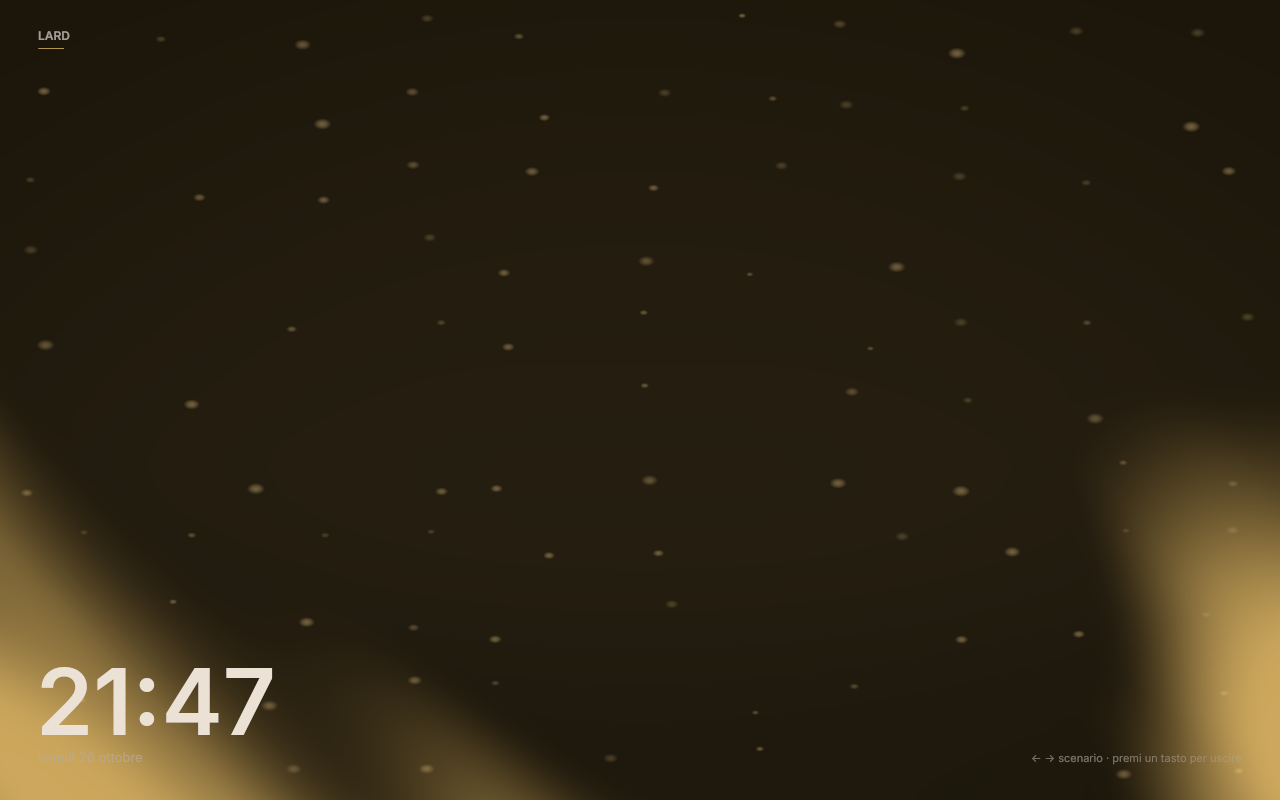
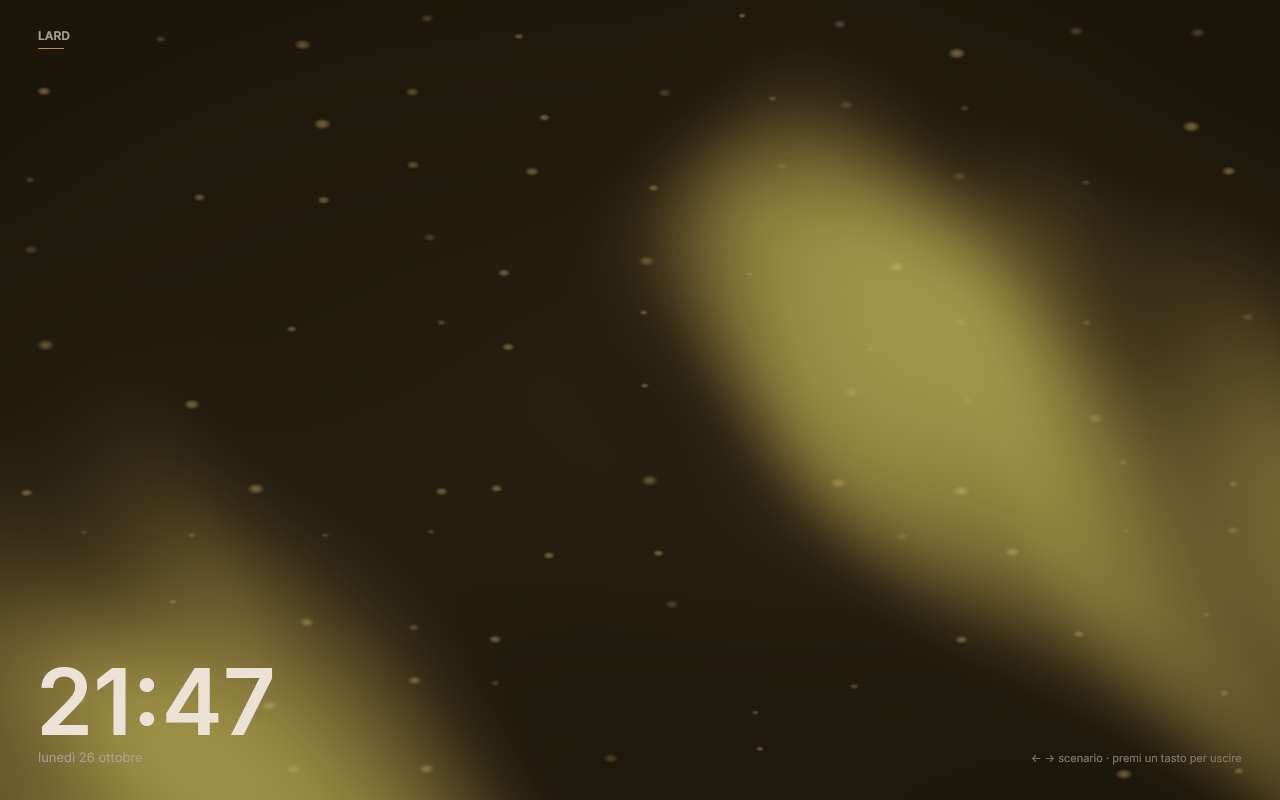
fix(lock): sfondo a risoluzione piena (niente più miniatura sgranata)
- Il wallpaper della lock ora viene decodificato e ricampionato (Catmull-Rom)
  direttamente alla dimensione dell'output, invece di partire da una miniatura
  512x288 stirata sullo schermo.
- Il risultato è messo in cache su disco (~/.cache/lard), chiave = path+mtime+
  dimensione: decodificare un JPEG 4K costa ~1s e la lock non può permetterselo
  a ogni blocco. Le cache vecchie della stessa dimensione vengono ripulite.
- Scene: gas più rado e meno "muro di colore" (soglia alta, due toni
  dell'accent, alone leggero); polvere con jitter a cella intera, non più
  allineata in griglia.

diff --git a/crates/lard-greeter/src/ui.rs b/crates/lard-greeter/src/ui.rs
@@ -82,23 +82,111 @@ pub struct GreeterView {
     /// Wallpaper pixels for the backdrop, and whether they were handed to the
     /// renderer already (the texture is uploaded only once).
     wallpaper: Option<(u32, u32, Vec<u8>)>,
+    /// Source file: decoded only once the output size is known, so the image is
+    /// resampled straight to the screen instead of being shrunk to a thumbnail.
+    wallpaper_path: Option<std::path::PathBuf>,
     wallpaper_uploaded: bool,
 }
 
+/// Cache file for a wallpaper resampled at a given size, keyed by the source
+/// path, its modification time and its length (`v1` bumps the format).
+fn wallpaper_cache_path(
+    source: &std::path::Path,
+    width: u32,
+    height: u32,
+) -> Option<std::path::PathBuf> {
+    use std::hash::{Hash, Hasher};
+    let metadata = std::fs::metadata(source).ok()?;
+    let modified = metadata
+        .modified()
+        .ok()?
+        .duration_since(std::time::UNIX_EPOCH)
+        .ok()?
+        .as_nanos();
+    let mut hasher = std::collections::hash_map::DefaultHasher::new();
+    source.hash(&mut hasher);
+    modified.hash(&mut hasher);
+    metadata.len().hash(&mut hasher);
+    let dir = std::env::var_os("XDG_CACHE_HOME")
+        .map(std::path::PathBuf::from)
+        .or_else(|| std::env::var_os("HOME").map(|home| std::path::PathBuf::from(home).join(".cache")))?
+        .join("lard");
+    std::fs::create_dir_all(&dir).ok()?;
+    Some(dir.join(format!("wallpaper-v1-{:016x}-{width}x{height}.rgba", hasher.finish())))
+}
+
 impl GreeterView {
-    /// Decode the desktop wallpaper for the lock screen backdrop. Done once, at
-    /// start-up: the lock surface must not block on a 4K JPEG later.
+    /// Point the lock screen at the desktop wallpaper. The file itself is read
+    /// on the first frame, when the size of the output is known.
     pub fn load_wallpaper(&mut self, path: &std::path::Path) {
-        // Its own texture, not the icon atlas: enough resolution to stay
-        // readable on a 1600px-wide screen, still cheap to blur.
-        const W: u32 = 512;
-        const H: u32 = 288;
-        let Ok(image) = image::open(path) else {
+        // Decoding happens later, on the first frame: only then the size of the
+        // output is known and the image can be resampled exactly, which is what
+        // keeps the backdrop sharp (a fixed thumbnail looked pixelated).
+        self.wallpaper_path = Some(path.to_path_buf());
+        self.wallpaper = None;
+        self.wallpaper_uploaded = false;
+    }
+
+    /// Resample the wallpaper to exactly the surface size. The result is cached
+    /// on disk: decoding a 4K JPEG plus a Catmull-Rom resample costs more than
+    /// a second, far too slow to pay on every unlock, and the lock must appear
+    /// immediately.
+    fn ensure_wallpaper(&mut self, size: Size) {
+        let Some(path) = self.wallpaper_path.clone() else {
+            return;
+        };
+        let width = size.w.max(1.0).round() as u32;
+        let height = size.h.max(1.0).round() as u32;
+        if self
+            .wallpaper
+            .as_ref()
+            .is_some_and(|(w, h, _)| (*w, *h) == (width, height))
+        {
+            return;
+        }
+        let expected = (width as usize) * (height as usize) * 4;
+        let cache = wallpaper_cache_path(&path, width, height);
+        if let Some(bytes) = cache
+            .as_ref()
+            .and_then(|cache| std::fs::read(cache).ok())
+            .filter(|bytes| bytes.len() == expected)
+        {
+            self.wallpaper = Some((width, height, bytes));
+            self.wallpaper_uploaded = false;
+            return;
+        }
+        let Ok(image) = image::open(&path) else {
             self.wallpaper = None;
             return;
         };
-        let small = image.resize_exact(W, H, image::imageops::FilterType::Triangle);
-        self.wallpaper = Some((W, H, small.to_rgba8().into_raw()));
+        let resized = image::imageops::resize(
+            &image.to_rgba8(),
+            width,
+            height,
+            image::imageops::FilterType::CatmullRom,
+        );
+        let rgba = resized.into_raw();
+        if let Some(cache) = &cache {
+            // One file per wallpaper change: drop the previous one for this
+            // size so the cache directory does not grow forever.
+            if let (Some(dir), Some(name)) = (cache.parent(), cache.file_name().and_then(|n| n.to_str())) {
+                let suffix = format!("-{width}x{height}.rgba");
+                if let Ok(entries) = std::fs::read_dir(dir) {
+                    for entry in entries.flatten() {
+                        let path = entry.path();
+                        let other = path.file_name().and_then(|n| n.to_str()).unwrap_or_default();
+                        if other.starts_with("wallpaper-v1-")
+                            && other.ends_with(&suffix)
+                            && other != name
+                        {
+                            let _ = std::fs::remove_file(&path);
+                        }
+                    }
+                }
+            }
+            let _ = std::fs::write(cache, &rgba);
+        }
+        self.wallpaper = Some((width, height, rgba));
         self.wallpaper_uploaded = false;
     }
 
@@ -149,6 +237,7 @@ impl GreeterView {
             clock: String::new(),
             date: String::new(),
             wallpaper: None,
+            wallpaper_path: None,
             wallpaper_uploaded: false,
         }
     }
@@ -439,12 +528,17 @@ impl GreeterView {
             return;
         }
 
-        let wallpaper = &self.config.wallpaper;
+        // Cloned (a handful of fields): the wallpaper must be resampled, which
+        // needs `&mut self` while the config lives in `self`.
+        let wallpaper = self.config.wallpaper.clone();
         let lock = self.mode == AuthMode::Lock;
         // A session-lock surface must stay opaque until unlock; only the card
         // fades. Exposing the desktop before `unlock()` would leak content.
         let background_alpha = if lock { 1.0 } else { fade };
         let mut drew_wallpaper = false;
+        if wallpaper.background == lard_core::theme::LockBackground::Wallpaper {
+            self.ensure_wallpaper(size);
+        }
         if wallpaper.background == lard_core::theme::LockBackground::Wallpaper
             && let Some((width, height, rgba)) = &self.wallpaper
         {
